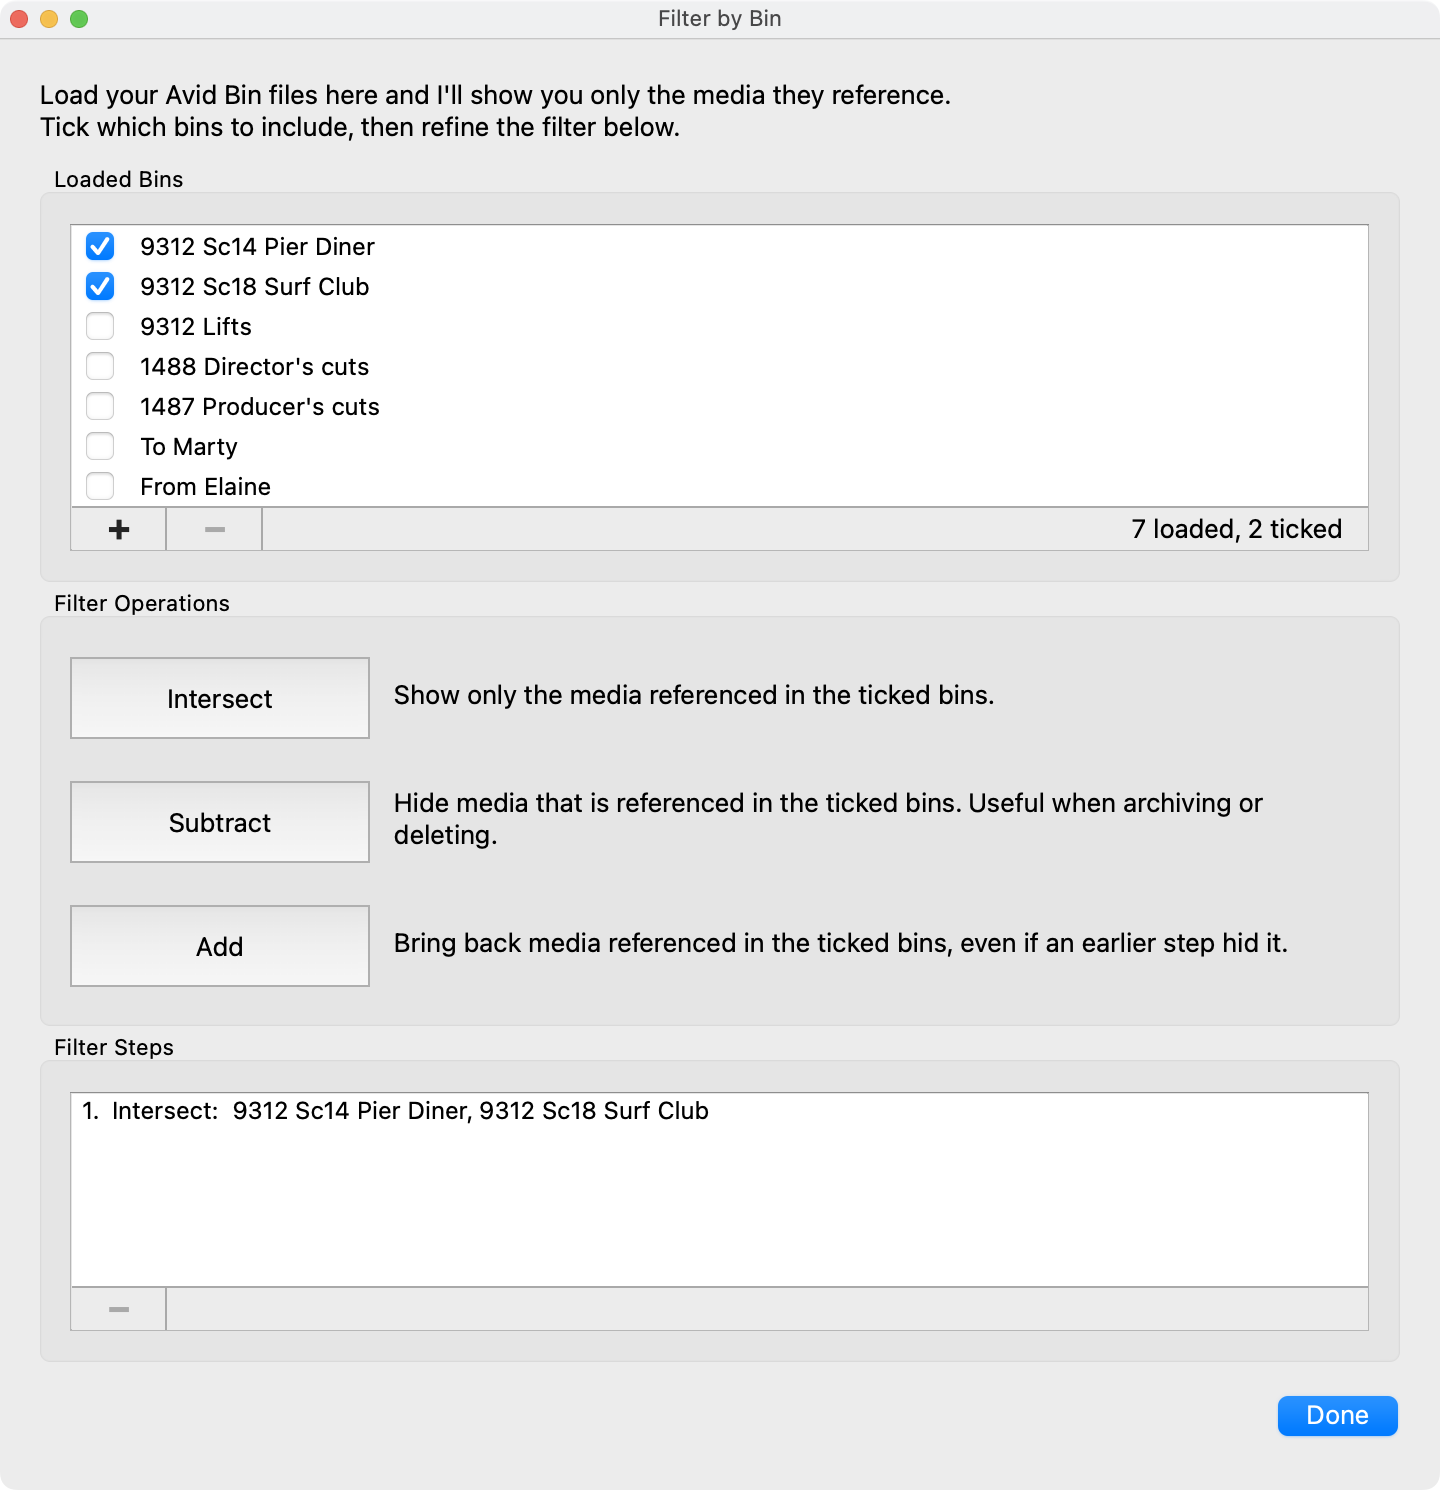
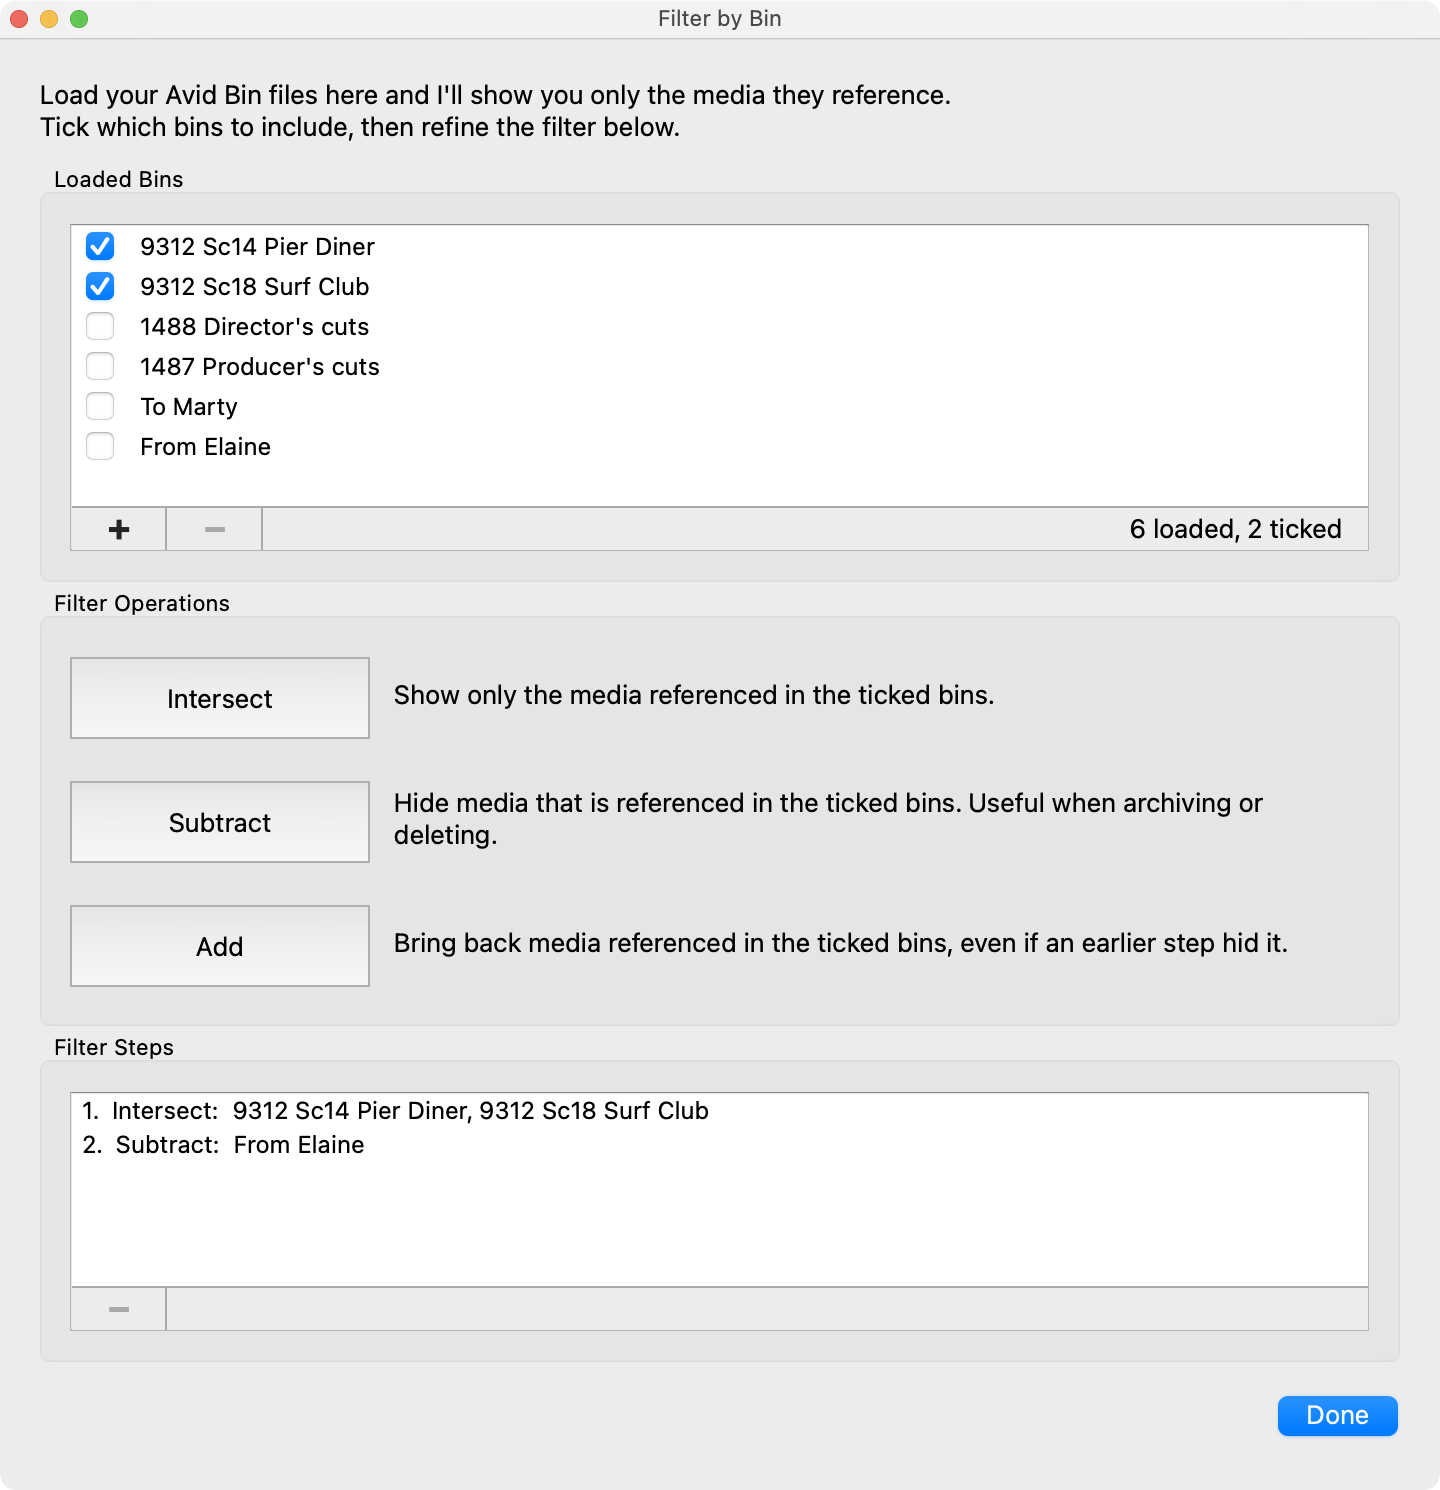
Add a GeniusDV link in Help menu.

diff --git a/src/ui/main_window.cpp b/src/ui/main_window.cpp
@@ -709,6 +709,16 @@ void MainWindow::buildHelpMenu()
 					QMessageBox::warning(this, tr("Send feedback"),
 										 tr("Couldn't open your email app. Please email mrtymcln.dev@gmail.com."));
 			});
+
+	helpMenu->addSeparator();
+
+	auto *geniusDvAction = helpMenu->addAction(tr("Avid training from GeniusDV"));
+	geniusDvAction->setMenuRole(QAction::NoRole);
+	connect(geniusDvAction, &QAction::triggered, this,
+			[]
+			{
+				QDesktopServices::openUrl(QUrl(QStringLiteral("https://www.geniusdv.com/tutorials/")));
+			});
 }
 
 // MARK: - About dialog
